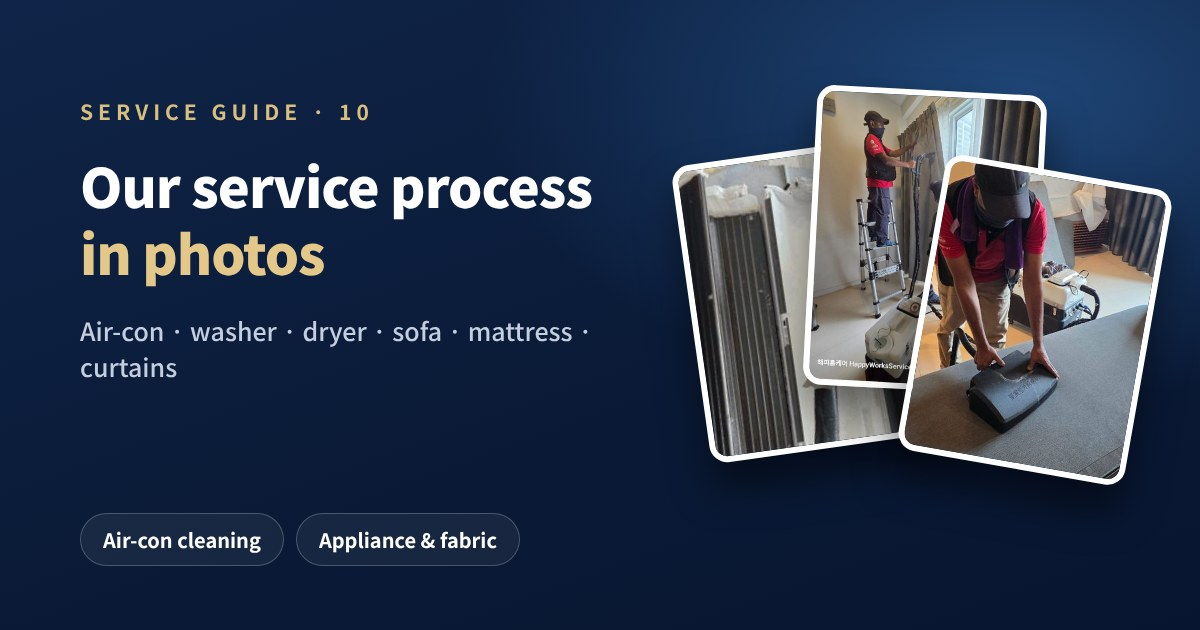
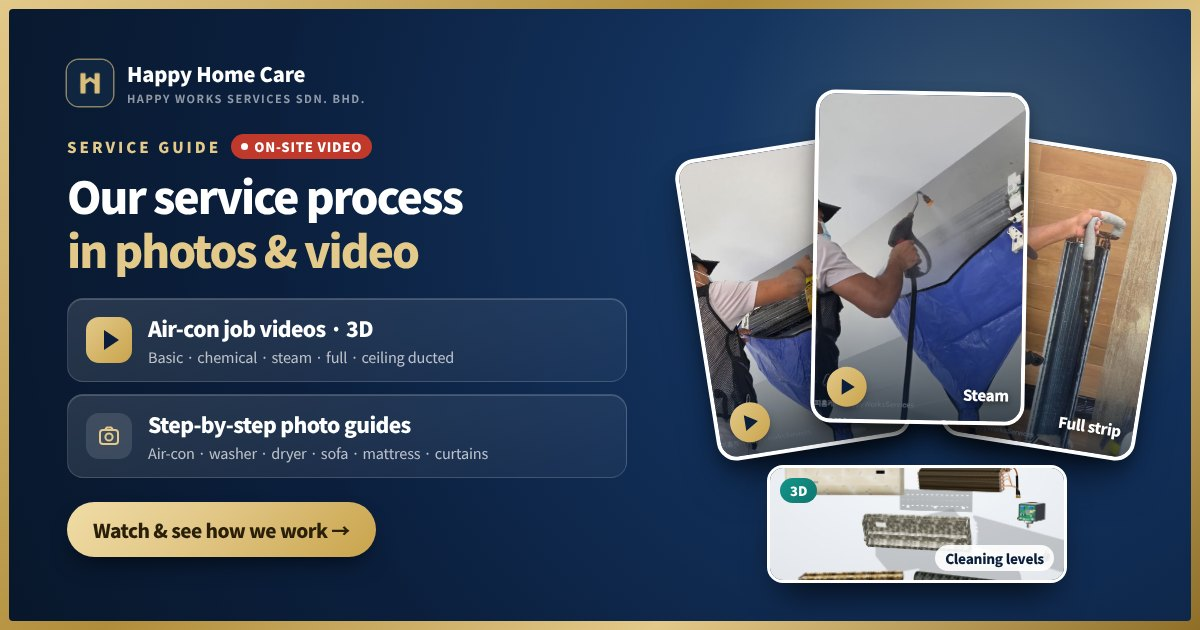
홈페이지 세척 과정에 현장 영상 버튼·플레이어 + 3D 카드 전체분해 그림, 서비스 안내 링크 썸네일·공유 그림·전자명함 배너를 현장 영상 버전으로
Claude-Session: https://claude.ai/code/session_019MNEeAWXw4qQP99pcnQDrb

diff --git a/home.html b/home.html
@@ -4111,8 +4111,12 @@ html[lang=en] .hp2 .gq-en,html[lang=en] .mp2 .gq-en{display:inline}html[lang=en]
     .d3x .tx .t{display:block;font-size:21px;font-weight:900;letter-spacing:-.035em;color:var(--navy-900);line-height:1.3;word-break:keep-all}
     .d3x .tx .d{display:block;margin-top:6px;font-size:13.5px;color:var(--ink-600);line-height:1.5;word-break:keep-all}
     .d3x .tx .go{display:inline-block;margin-top:10px;font-style:normal;font-size:13.5px;font-weight:800;color:var(--teal-600)}
+    /* 3D 카드 재생 버튼: 부품을 가리지 않게 오른쪽 아래 금색 (2026-11-23) */
+    .d3x .th:after{content:"";position:absolute;inset:auto 0 0 0;height:30%;background:linear-gradient(0deg,rgba(8,23,43,.22),rgba(8,23,43,0))}
+    .d3x .pl{left:auto;top:auto;right:16px;bottom:16px;margin:0;z-index:1;background:linear-gradient(135deg,#e3c98a,#c9a44c);box-shadow:0 0 0 4px rgba(255,255,255,.7),0 8px 18px -6px rgba(8,23,43,.6)}
+    .d3x .pl:before{border-left-color:var(--navy-950)}
     @media (max-width:720px){.d3x{gap:12px}.d3x .th{flex:0 0 42%;min-height:130px}
-      .d3x .pl{width:42px;height:42px;margin:-21px 0 0 -21px}.d3x .pl:before{border-left-width:13px;border-top-width:8px;border-bottom-width:8px;margin-left:4px}
+      .d3x .pl{width:38px;height:38px;margin:0;right:10px;bottom:10px}.d3x .pl:before{border-left-width:13px;border-top-width:8px;border-bottom-width:8px;margin-left:4px}
       .d3x .tx{padding:12px 14px}.d3x .tx .t{font-size:15.5px}.d3x .tx .d{font-size:12.5px}.d3x .tx .go{margin-top:6px;font-size:12.5px}}
     @media (prefers-reduced-motion:reduce){.d3x a,.d3x .pl{transition:none}}
     </style>
@@ -4120,7 +4124,7 @@ html[lang=en] .hp2 .gq-en,html[lang=en] .mp2 .gq-en{display:inline}html[lang=en]
       <div class="d3x-h"><b class="t"><span class="gq-ko">3D 영상으로 한눈에 보기</span><span class="gq-en">See it in 3D</span></b>
         <span class="s"><span class="gq-ko">세척 종류마다 어디까지 분해하고 어떻게 세척하는지 확인하세요.</span><span class="gq-en">See what each cleaning level takes apart and how it is cleaned.</span></span></div>
       <a href="/ac-3d-scope?from=home" data-d3="/ac-3d-scope">
-        <div class="th"><img src="3d-scope-thumb.jpg" alt="" loading="lazy" decoding="async" width="800" height="600"><span class="tg">3D</span><span class="pl"></span></div>
+        <div class="th"><img src="3d-scope-thumb2-43.jpg?v=20261123" alt="" loading="lazy" decoding="async" width="1200" height="900"><span class="tg">3D</span><span class="pl"></span></div>
         <div class="tx"><b class="t"><span class="gq-ko">3D로 보는 세척 종류별 분해 범위</span><span class="gq-en">Cleaning levels in 3D</span></b>
           <span class="d"><span class="gq-ko">기본 · 약품 · 스팀살균 · 반분해 · 전체분해 — 분해 범위와 세척 과정을 비교</span><span class="gq-en">Basic · chemical · steam · semi · full — compare what is removed and how it is cleaned</span></span>
           <em class="go"><span class="gq-ko">▶ 3D 영상 보기</span><span class="gq-en">▶ Watch in 3D</span></em></div>
@@ -4146,6 +4150,7 @@ html[lang=en] .hp2 .gq-en,html[lang=en] .mp2 .gq-en{display:inline}html[lang=en]
       <!-- 기본세척 -->
       <div class="acx-pane" data-acx-pane="basic" data-n="2" hidden>
         <div class="acx-gh"><h3>기본세척 2단계 과정</h3><p>전용 고압세척수로 에어컨 내부의 먼지를 깨끗하게.</p></div>
+        <button type="button" class="hv-go" data-hv="basic"><span class="th"><img src="vid-ac-basic.jpg?v=20261123" alt="" loading="lazy" decoding="async"><span class="pl"></span></span><span class="tx"><em><span class="gq-ko">현장 영상</span><span class="gq-en">ON-SITE VIDEO</span></em><b><span class="gq-ko">실제 작업 영상으로 보기</span><span class="gq-en">Watch the real job</span></b><small><span class="gq-ko">4단계</span><span class="gq-en">4 steps</span> · 0:22</small></span><span class="ar"><svg viewBox="0 0 20 20" fill="none" stroke="#e3c98a" stroke-width="2.6" stroke-linecap="round" stroke-linejoin="round"><path d="M7.5 4l6 6-6 6"/></svg></span></button>
         <div class="cw-steps">
       <div class="cw-step">
         <div class="cw-ph"><img src="ac-s-prep.jpg" alt="부품 분해 및 보양작업" loading="lazy" width="396" height="264"><span class="no"><b data-n="1"></b>STEP 1</span></div>
@@ -4180,6 +4185,7 @@ html[lang=en] .hp2 .gq-en,html[lang=en] .mp2 .gq-en{display:inline}html[lang=en]
       <!-- 약품세척 -->
       <div class="acx-pane" data-acx-pane="chem" data-n="4" hidden>
         <div class="acx-gh"><h3>약품세척 4단계 과정</h3><p>전용 세척약품과 고압세척수로 에어컨 내부의 먼지, 곰팡이까지 깨끗하게.</p></div>
+        <button type="button" class="hv-go" data-hv="chem"><span class="th"><img src="vid-ac-chem.jpg?v=20261123" alt="" loading="lazy" decoding="async"><span class="pl"></span></span><span class="tx"><em><span class="gq-ko">현장 영상</span><span class="gq-en">ON-SITE VIDEO</span></em><b><span class="gq-ko">실제 작업 영상으로 보기</span><span class="gq-en">Watch the real job</span></b><small><span class="gq-ko">7단계</span><span class="gq-en">7 steps</span> · 0:40</small></span><span class="ar"><svg viewBox="0 0 20 20" fill="none" stroke="#e3c98a" stroke-width="2.6" stroke-linecap="round" stroke-linejoin="round"><path d="M7.5 4l6 6-6 6"/></svg></span></button>
         <div class="cw-steps">
       <div class="cw-step">
         <div class="cw-ph"><img src="ac-s-prep.jpg" alt="부품 분해 및 보양작업" loading="lazy" width="396" height="264"><span class="no"><b data-n="1"></b>STEP 1</span></div>
@@ -4228,6 +4234,7 @@ html[lang=en] .hp2 .gq-en,html[lang=en] .mp2 .gq-en{display:inline}html[lang=en]
       <!-- 스팀살균세척 -->
       <div class="acx-pane" data-acx-pane="steam" data-n="5">
         <div class="acx-gh"><span class="rec">추천</span><h3>스팀살균세척 5단계 과정</h3><p>전문 장비와 체계적인 세척 과정으로 에어컨 내부의 먼지, 곰팡이, 세균까지 깨끗하게.</p></div>
+        <button type="button" class="hv-go" data-hv="steam"><span class="th"><img src="vid-ac-steam.jpg?v=20261123" alt="" loading="lazy" decoding="async"><span class="pl"></span></span><span class="tx"><em><span class="gq-ko">현장 영상</span><span class="gq-en">ON-SITE VIDEO</span></em><b><span class="gq-ko">실제 작업 영상으로 보기</span><span class="gq-en">Watch the real job</span></b><small><span class="gq-ko">11단계</span><span class="gq-en">11 steps</span> · 0:47</small></span><span class="ar"><svg viewBox="0 0 20 20" fill="none" stroke="#e3c98a" stroke-width="2.6" stroke-linecap="round" stroke-linejoin="round"><path d="M7.5 4l6 6-6 6"/></svg></span></button>
         <div class="cw-steps">
       <div class="cw-step">
         <div class="cw-ph"><img src="ac-s-prep.jpg" alt="부품 분해 및 보양작업" loading="lazy" width="396" height="264"><span class="no"><b data-n="1"></b>STEP 1</span></div>
@@ -4282,6 +4289,7 @@ html[lang=en] .hp2 .gq-en,html[lang=en] .mp2 .gq-en{display:inline}html[lang=en]
       <!-- 전체분해세척 -->
       <div class="acx-pane" data-acx-pane="full" data-n="5" hidden>
         <div class="acx-gh"><h3>전체분해세척 5단계 과정</h3><p>실내기를 벽에서 떼어 모든 부품을 하나하나 분해 · 세척. 가장 깊은 곳의 곰팡이와 찌든 때까지 깨끗하게.</p></div>
+        <button type="button" class="hv-go" data-hv="full"><span class="th"><img src="vid-ac-full.jpg?v=20261123" alt="" loading="lazy" decoding="async"><span class="pl"></span></span><span class="tx"><em><span class="gq-ko">현장 영상</span><span class="gq-en">ON-SITE VIDEO</span></em><b><span class="gq-ko">실제 작업 영상으로 보기</span><span class="gq-en">Watch the real job</span></b><small><span class="gq-ko">12단계</span><span class="gq-en">12 steps</span> · 1:06</small></span><span class="ar"><svg viewBox="0 0 20 20" fill="none" stroke="#e3c98a" stroke-width="2.6" stroke-linecap="round" stroke-linejoin="round"><path d="M7.5 4l6 6-6 6"/></svg></span></button>
         <div class="cw-steps">
       <div class="cw-step">
         <div class="cw-ph"><img src="ac-f1.jpg" alt="실내기 분해 벽에서 탈거" loading="lazy" width="396" height="264"><span class="no"><b data-n="1"></b>STEP 1</span></div>
@@ -8582,5 +8590,146 @@ window.PT_IMG={ban:'price-banner.jpg'};
   setTimeout(tick,600);
 })();
 </script>
+<!-- ═══ 🎬 현장 영상 플레이어 (2026-11-23) — 세척 종류별 실제 작업 영상 · 단계 바로가기. guides.html 과 같은 영상 파일 사용 ═══ -->
+<style id="hv-video">
+.hv-go{position:relative;display:flex;align-items:center;gap:14px;width:100%;max-width:560px;margin:0 2px 18px;padding:10px 14px 10px 10px;border:0;border-radius:18px;cursor:pointer;font-family:inherit;text-align:left;color:#2a1f08;
+  background:linear-gradient(135deg,#f0dca6,#e3c98a 35%,#c9a44c 75%,#b08d3a);box-shadow:inset 0 1px 0 rgba(255,255,255,.55),0 2px 4px rgba(11,24,51,.18),0 14px 26px -12px rgba(11,24,51,.5);transition:transform .16s var(--ease)}
+.hv-go:hover{transform:translateY(-2px)}
+.hv-go:active{transform:scale(.98)}
+.hv-go .th{position:relative;flex:none;width:58px;height:76px;border-radius:12px;overflow:hidden;background:var(--navy-900);box-shadow:0 0 0 2px rgba(255,255,255,.7),0 6px 12px -4px rgba(42,31,8,.5)}
+.hv-go .th img{position:absolute;inset:0;width:100%;height:100%;object-fit:cover}
+.hv-go .th:after{content:"";position:absolute;inset:0;background:rgba(8,23,43,.28)}
+.hv-go .pl{position:absolute;left:50%;top:50%;z-index:1;width:30px;height:30px;margin:-15px 0 0 -15px;border-radius:50%;background:#fff;display:grid;place-items:center;animation:hvP 1.8s ease-out infinite}
+.hv-go .pl:before{content:"";margin-left:3px;border-left:10px solid var(--navy-950);border-top:6px solid transparent;border-bottom:6px solid transparent}
+@keyframes hvP{0%{box-shadow:0 0 0 0 rgba(255,255,255,.75)}70%{box-shadow:0 0 0 12px rgba(255,255,255,0)}100%{box-shadow:0 0 0 0 rgba(255,255,255,0)}}
+.hv-go .tx{flex:1;min-width:0}
+.hv-go .tx em{display:inline-flex;align-items:center;gap:5px;font-style:normal;font-size:10.5px;font-weight:900;letter-spacing:.02em;color:#fff;background:var(--navy-900);padding:3px 8px;border-radius:999px}
+.hv-go .tx em:before{content:"";width:6px;height:6px;border-radius:50%;background:#ef4444}
+.hv-go .tx b{display:block;margin-top:5px;font-size:17px;font-weight:900;letter-spacing:-.04em;line-height:1.25;word-break:keep-all}
+.hv-go .tx small{display:block;margin-top:2px;font-size:12.5px;font-weight:800;color:rgba(42,31,8,.7);font-variant-numeric:tabular-nums}
+.hv-go .ar{flex:none;width:34px;height:34px;border-radius:50%;background:var(--navy-900);display:grid;place-items:center}
+.hv-go .ar svg{width:16px;height:16px}
+#hvp{position:fixed;inset:0;z-index:2147483000;background:#05101f;display:none;flex-direction:column;color:#fff;font-family:inherit}
+#hvp.on{display:flex}
+#hvp button{font-family:inherit;border:0;cursor:pointer;color:inherit;background:none}
+#hvp a{text-decoration:none}
+.hvp-t{width:100%;max-width:560px;margin:0 auto;padding:calc(8px + env(safe-area-inset-top)) 12px 8px}
+.hvp-b{display:flex;gap:3px;height:4px}
+.hvp-b button{flex:1;position:relative;border-radius:2px;background:rgba(255,255,255,.22)!important;overflow:hidden;min-height:4px;padding:0}
+.hvp-b button:after{content:"";position:absolute;inset:-10px 0}
+.hvp-b button i{position:absolute;left:0;top:0;bottom:0;width:0;background:var(--gold-300)}
+.hvp-h{display:flex;align-items:center;gap:10px;margin-top:10px;padding-left:6px}
+.hvp-h .tt{flex:1;min-width:0}
+.hvp-h small{display:block;font-size:10.5px;font-weight:800;letter-spacing:.08em;color:var(--gold-300)}
+.hvp-h b{display:block;font-size:16px;font-weight:900;letter-spacing:-.035em;white-space:nowrap;overflow:hidden;text-overflow:ellipsis;margin-top:1px}
+.hvp-x{flex:none;width:44px;height:44px;border-radius:14px;background:rgba(255,255,255,.1)!important;display:grid;place-items:center}
+.hvp-x svg{width:20px;height:20px}
+.hvp-v{position:relative;flex:1;min-height:0;display:flex;align-items:center;justify-content:center;padding:0 12px}
+.hvp-v video{max-width:100%;max-height:100%;height:100%;aspect-ratio:9/16;object-fit:contain;border-radius:16px;background:#000;box-shadow:0 24px 48px -18px rgba(0,0,0,.9)}
+.hvp-i{position:absolute;left:50%;top:50%;width:72px;height:72px;margin:-36px 0 0 -36px;border-radius:50%;background:rgba(8,23,43,.62);-webkit-backdrop-filter:blur(8px);backdrop-filter:blur(8px);border:1px solid rgba(255,255,255,.25);display:grid;place-items:center;opacity:0;transform:scale(.85);transition:opacity .18s,transform .18s;pointer-events:none}
+.hvp-i.on{opacity:1;transform:none}
+.hvp-i:before{content:"";margin-left:5px;border-left:22px solid #fff;border-top:14px solid transparent;border-bottom:14px solid transparent}
+.hvp-i.pa:before{margin:0;width:20px;height:24px;border:0;background:linear-gradient(90deg,#fff 0 7px,transparent 7px 13px,#fff 13px)}
+.hvp-e{position:absolute;inset:0;display:none;flex-direction:column;align-items:center;justify-content:center;gap:10px;background:rgba(5,16,31,.72);-webkit-backdrop-filter:blur(4px);backdrop-filter:blur(4px)}
+.hvp-e.on{display:flex}
+.hvp-e small{font-size:12px;font-weight:700;color:rgba(255,255,255,.7)}
+.hvp-e button{min-width:220px;min-height:48px;padding:0 20px;border-radius:14px;font-size:15px;font-weight:900;letter-spacing:-.03em;background:rgba(255,255,255,.12)!important}
+#hvp .gold{color:#2a1f08!important;background:linear-gradient(135deg,#e3c98a,#c9a44c 60%,#b08d3a)!important}
+.hvp-c{display:flex;gap:7px;overflow-x:auto;width:100%;max-width:560px;margin:0 auto;padding:12px 12px 4px;scrollbar-width:none;-webkit-overflow-scrolling:touch}
+.hvp-c::-webkit-scrollbar{display:none}
+.hvp-c button{flex:none;display:flex;align-items:center;gap:6px;min-height:38px;padding:0 13px 0 6px!important;border-radius:999px;background:rgba(255,255,255,.08)!important;border:1px solid rgba(255,255,255,.12)!important;font-size:13px;font-weight:800;letter-spacing:-.03em;color:rgba(255,255,255,.78)!important;white-space:nowrap}
+.hvp-c button i{font-style:normal;min-width:26px;height:26px;padding:0 6px;border-radius:999px;display:grid;place-items:center;font-size:11px;font-weight:900;background:rgba(255,255,255,.12)}
+.hvp-c button.on{background:#fff!important;color:var(--navy-950)!important;border-color:#fff!important}
+.hvp-c button.on i{background:linear-gradient(135deg,#e3c98a,#c9a44c);color:#2a1f08}
+.hvp-c button.dn{color:rgba(255,255,255,.5)!important}
+.hvp-f{display:grid;grid-template-columns:48px 1fr 1fr 48px;gap:8px;width:100%;max-width:560px;margin:0 auto;padding:10px 12px calc(10px + env(safe-area-inset-bottom))}
+.hvp-f button,.hvp-f a{min-height:48px;border-radius:14px;display:grid;place-items:center;font-size:13.5px;font-weight:800;letter-spacing:-.02em;color:#fff;background:rgba(255,255,255,.1)!important}
+.hvp-f svg{width:20px;height:20px}
+.hvp-f button:disabled{opacity:.3}
+.hvp-toast{position:fixed;left:50%;bottom:calc(84px + env(safe-area-inset-bottom));transform:translateX(-50%);z-index:2147483001;background:#fff;color:var(--navy-900);font-size:13px;font-weight:800;padding:10px 16px;border-radius:999px;box-shadow:0 12px 24px -10px rgba(0,0,0,.6);opacity:0;pointer-events:none;transition:opacity .2s}
+.hvp-toast.on{opacity:1}
+@media (max-width:720px){.hv-go{max-width:none;margin:0 0 14px}.hv-go .tx b{font-size:16px}}
+@media (prefers-reduced-motion:reduce){.hv-go .pl{animation:none}.hv-go,.hvp-i{transition:none}}
+</style>
+<div id="hvp" role="dialog" aria-modal="true" aria-labelledby="hvpT">
+ <div class="hvp-t"><div class="hvp-b" id="hvpB"></div>
+  <div class="hvp-h"><div class="tt"><small id="hvpK"></small><b id="hvpT"></b></div>
+   <button class="hvp-x" id="hvpX" type="button" aria-label="닫기"><svg viewBox="0 0 20 20" fill="none" stroke="#fff" stroke-width="2.4" stroke-linecap="round"><path d="M4 4l12 12M16 4 4 16"/></svg></button></div></div>
+ <div class="hvp-v" id="hvpV"><video id="hvpE" playsinline muted preload="metadata"></video><div class="hvp-i" id="hvpI"></div>
+  <div class="hvp-e" id="hvpEnd"><small id="hvpEs"></small><button class="gold" id="hvpEn" type="button"></button><button id="hvpEr" type="button"></button></div></div>
+ <div class="hvp-c" id="hvpC"></div>
+ <div class="hvp-f">
+  <button id="hvpPrev" type="button" aria-label="이전 영상"><svg viewBox="0 0 20 20" fill="none" stroke="#fff" stroke-width="2.4" stroke-linecap="round" stroke-linejoin="round"><path d="M12.5 4 6.5 10l6 6"/></svg></button>
+  <button id="hvpCopy" type="button"></button>
+  <a id="hvpWa" class="gold" target="_blank" rel="noopener"></a>
+  <button id="hvpNext" type="button" aria-label="다음 영상"><svg viewBox="0 0 20 20" fill="none" stroke="#fff" stroke-width="2.4" stroke-linecap="round" stroke-linejoin="round"><path d="M7.5 4l6 6-6 6"/></svg></button>
+ </div>
+</div>
+<div class="hvp-toast" id="hvpToast"></div>
+<script>
+(function(){
+  /* 영상 · 단계 시작 초 — guides.html 의 VIDS 와 같게 유지하세요 */
+  var VER='20261123',WA='60172472774';
+  var VIDS=[
+    {k:'basic',ko:'기본 세척',en:'Basic cleaning',d:22,ch:[[3.4,'외부 케이스 분리','Remove casing'],[6.8,'열교환기 세척','Wash coil'],[10.2,'외부 케이스 세척','Wash casing'],[13.6,'재조립','Reassemble']]},
+    {k:'chem',ko:'약품 세척',en:'Chemical cleaning',d:40,ch:[[3.4,'패널 · 필터 분리','Panel & filters'],[6.0,'드레인판 분리','Drain pan'],[11.2,'분해한 부품','Removed parts'],[13.8,'세척 커버 설치','Wash cover'],[19.0,'약품 분사','Chemical spray'],[21.6,'고압수 세척','Pressure rinse'],[32.0,'외부 케이스 세척','Wash casing']]},
+    {k:'steam',ko:'스팀살균 세척',en:'Steam sterilising',d:47,ch:[[3.4,'패널 · 필터 분리','Panel & filters'],[6.0,'드레인판 분리','Drain pan'],[11.2,'세척 전 오염','Before cleaning'],[13.8,'세척 커버 설치','Wash cover'],[16.4,'약품 처리','Chemical'],[21.6,'고압수 세척','Pressure rinse'],[26.8,'고온 스팀 세척','Steam wash'],[32.0,'고온 스팀 살균','Steam sterilise'],[34.6,'외부 케이스 세척','Wash casing'],[37.2,'재조립','Reassemble'],[39.8,'마무리 청소','Wipe-down']]},
+    {k:'full',ko:'전체분해 세척',en:'Full disassembly',d:66,ch:[[3.4,'작업 공간 보양','Protect area'],[6.0,'외부 케이스 분리','Remove casing'],[8.6,'배관 · 전선 분리','Pipes & wiring'],[11.2,'실내기 탈거','Unit off wall'],[16.4,'부품별 분해','Disassembly'],[24.2,'분해한 부품','Removed parts'],[29.4,'세척 장소로 이동','To wash area'],[32.0,'세척 과정','Washing'],[42.4,'세척 완료 부품','Clean parts'],[45.0,'재설치','Reinstall'],[50.2,'배관 연결 · 마감','Reconnect'],[55.4,'냉매 누설 검사','Leak test']]},
+    {k:'ceil',ko:'천장 매립형 스팀살균',en:'Ceiling ducted – steam',d:76,ch:[[3.4,'작업 공간 보양','Protect area'],[8.6,'천장 점검구 개방','Open ceiling'],[13.8,'실내기 상태 확인','Inspect unit'],[16.4,'드레인판 분해','Drain pan'],[21.6,'하부 패널 분리','Bottom panel'],[26.8,'보온 커버 분리','Insulation'],[29.4,'분해한 부품','Removed parts'],[34.6,'세척 보양막 설치','Wash cover'],[37.2,'세척 과정','Washing'],[47.6,'드레인판 세척','Wash drain pan'],[50.2,'세척 완료 열교환기','Clean coil'],[55.4,'재조립','Reassemble'],[60.6,'천장 마감','Close ceiling'],[65.8,'마무리 청소','Wipe-down']]}
+  ];
+  var T={ko:{k:'현장 영상',copy:'링크 복사',copied:'링크를 복사했습니다',wa:'WhatsApp 문의',end:'영상이 끝났습니다',next:function(t){return '다음 영상 · '+t+' ▶'},again:'다시 보기',first:'처음 영상부터 ▶',msg:function(t){return '안녕하세요, 해피홈케어 “'+t+'” 서비스 문의드립니다.'}},
+         en:{k:'ON-SITE VIDEO',copy:'Copy link',copied:'Link copied',wa:'WhatsApp us',end:'End of video',next:function(t){return 'Next · '+t+' ▶'},again:'Watch again',first:'Start from the first ▶',msg:function(t){return 'Hello, I have a question about your "'+t+'" service.'}}};
+  var $=function(id){return document.getElementById(id)},E=$('hvpE'),pv=-1,iT,lastC=-2,prevOv='';
+  function L(){return document.documentElement.lang==='en'?'en':'ko'}
+  function esc(s){return String(s).replace(/[&<>"]/g,function(c){return {'&':'&amp;','<':'&lt;','>':'&gt;','"':'&quot;'}[c]})}
+  function idx(k){for(var i=0;i<VIDS.length;i++)if(VIDS[i].k===k)return i;return -1}
+  function chAt(v,x){var c=-1;v.ch.forEach(function(q,i){if(x>=q[0]-.05)c=i});return c}
+  function flash(pa){var i=$('hvpI');i.classList.toggle('pa',!!pa);i.classList.add('on');clearTimeout(iT);iT=setTimeout(function(){i.classList.remove('on')},pa?100000:550)}
+  function fill(){
+    var l=L(),t=T[l],v=VIDS[pv],n=l==='en'?2:1,b='',c='';
+    $('hvpK').textContent=t.k+' · '+(pv+1)+' / '+VIDS.length;$('hvpT').textContent=v[l];
+    $('hvpCopy').textContent=t.copy;var wa=$('hvpWa');wa.textContent=t.wa;wa.href='https://wa.me/'+WA+'?text='+encodeURIComponent(t.msg(v[l]));
+    $('hvpPrev').disabled=pv===0;$('hvpNext').disabled=pv===VIDS.length-1;
+    v.ch.forEach(function(q,i){b+='<button type="button" data-c="'+i+'" aria-label="STEP '+(i+1)+'"><i></i></button>';c+='<button type="button" data-c="'+i+'"><i>'+(i+1)+'</i>'+esc(q[n])+'</button>'});
+    $('hvpB').innerHTML=b;$('hvpC').innerHTML=c;
+    $('hvpEs').textContent=t.end;$('hvpEn').textContent=pv<VIDS.length-1?t.next(VIDS[pv+1][l]):t.first;$('hvpEr').textContent=t.again;
+    lastC=-2;tick();
+  }
+  function tick(){
+    if(pv<0)return;var v=VIDS[pv],x=E.currentTime||0,c=chAt(v,x),bs=$('hvpB').children,cs=$('hvpC').children;
+    for(var i=0;i<bs.length;i++){var s0=v.ch[i][0],s1=i<v.ch.length-1?v.ch[i+1][0]:(E.duration||v.d)-1.5,f=x<=s0?0:x>=s1?1:(x-s0)/(s1-s0);
+      bs[i].firstChild.style.width=(f*100)+'%';cs[i].classList.toggle('on',i===c);cs[i].classList.toggle('dn',i<c)}
+    if(c!==lastC){lastC=c;if(c>=0){var el=cs[c],box=$('hvpC');try{box.scrollTo({left:el.offsetLeft-box.clientWidth/2+el.offsetWidth/2,behavior:'smooth'})}catch(e){}}}
+  }
+  function open(i){
+    if(pv<0)prevOv=document.body.style.overflow;
+    pv=i;var v=VIDS[i];$('hvp').classList.add('on');document.body.style.overflow='hidden';$('hvpEnd').classList.remove('on');
+    E.poster='vid-ac-'+v.k+'.jpg?v='+VER;E.src='vid-ac-'+v.k+'.mp4?v='+VER;try{E.currentTime=0}catch(e){}
+    fill();var p=E.play();if(p&&p.catch)p.catch(function(){flash(true)});
+  }
+  function close(){pv=-1;E.pause();E.removeAttribute('src');E.load();$('hvp').classList.remove('on');document.body.style.overflow=prevOv}
+  function seek(c){E.currentTime=VIDS[pv].ch[c][0]+.05;$('hvpEnd').classList.remove('on');E.play();tick()}
+  function toast(m){var e=$('hvpToast');e.textContent=m;e.classList.add('on');clearTimeout(toast.t);toast.t=setTimeout(function(){e.classList.remove('on')},1800)}
+  E.addEventListener('timeupdate',tick);
+  E.addEventListener('play',function(){$('hvpI').classList.remove('on')});
+  E.addEventListener('ended',function(){$('hvpEnd').classList.add('on')});
+  $('hvpV').addEventListener('click',function(e){if(e.target.closest('.hvp-e'))return;if(E.paused){E.play();flash(false)}else{E.pause();flash(true)}});
+  $('hvpB').addEventListener('click',function(e){var b=e.target.closest('button');if(b)seek(+b.getAttribute('data-c'))});
+  $('hvpC').addEventListener('click',function(e){var b=e.target.closest('button');if(b)seek(+b.getAttribute('data-c'))});
+  $('hvpEr').addEventListener('click',function(){seek(0);E.currentTime=0});
+  $('hvpEn').addEventListener('click',function(){open(pv<VIDS.length-1?pv+1:0)});
+  $('hvpX').addEventListener('click',close);
+  $('hvpPrev').addEventListener('click',function(){if(pv>0)open(pv-1)});
+  $('hvpNext').addEventListener('click',function(){if(pv<VIDS.length-1)open(pv+1)});
+  $('hvpCopy').addEventListener('click',function(){
+    var u=location.origin+'/guides?v='+VIDS[pv].k+(L()==='en'?'&lang=en':'');
+    var ok=function(){toast(T[L()].copied)},no=function(){toast(u)};
+    if(navigator.clipboard&&navigator.clipboard.writeText)navigator.clipboard.writeText(u).then(ok,no);else no();
+  });
+  document.addEventListener('click',function(e){var b=e.target.closest&&e.target.closest('.hv-go');if(b){e.preventDefault();var i=idx(b.getAttribute('data-hv'));if(i>=0)open(i)}});
+  document.addEventListener('keydown',function(e){if(pv<0)return;if(e.key==='Escape')close();else if(e.key==='ArrowLeft'&&pv>0)open(pv-1);else if(e.key==='ArrowRight'&&pv<VIDS.length-1)open(pv+1)});
+})();
+</script>
+
 </body>
 </html>

diff --git a/namecard.html b/namecard.html
@@ -389,7 +389,13 @@ body.own::before{height:calc(565px + var(--ownH,0px))}
 .na-gb .gb-ph img:nth-child(1){left:0;top:14px;transform:rotate(-9deg)}
 .na-gb .gb-ph img:nth-child(2){left:22%;top:0;transform:rotate(3deg)}
 .na-gb .gb-ph img:nth-child(3){left:40%;top:22px;transform:rotate(11deg)}
-@media (prefers-reduced-motion:reduce){.na-gb{transition:none}}
+/* 🎬 현장 영상 표시 (2026-11-23) — 맨 앞 사진 위 금색 재생 버튼 + 「현장 영상」 점 */
+.na-gb .gb-pl{position:absolute;left:76%;top:114px;z-index:2;width:40px;height:40px;margin:-20px 0 0 -20px;border-radius:50%;background:linear-gradient(135deg,#F6E8BC,var(--gold-200) 40%,var(--gold-500));box-shadow:0 0 0 3px rgba(255,255,255,.85),0 8px 16px -6px rgba(0,0,0,.7);display:grid;place-items:center;animation:gbPl 1.8s ease-out infinite}
+.na-gb .gb-pl:before{content:"";margin-left:4px;border-left:13px solid var(--navy-950);border-top:8px solid transparent;border-bottom:8px solid transparent}
+@keyframes gbPl{0%{box-shadow:0 0 0 3px rgba(255,255,255,.85),0 0 0 3px rgba(255,255,255,.5)}70%{box-shadow:0 0 0 3px rgba(255,255,255,.85),0 0 0 14px rgba(255,255,255,0)}100%{box-shadow:0 0 0 3px rgba(255,255,255,.85),0 0 0 3px rgba(255,255,255,0)}}
+.na-gb small i{display:inline-flex;align-items:center;gap:4px;margin-left:6px;padding:2px 7px;border-radius:999px;font-style:normal;letter-spacing:.04em;color:#fff;background:#c0392b;vertical-align:1px}
+.na-gb small i:before{content:"";width:5px;height:5px;border-radius:50%;background:#fff}
+@media (prefers-reduced-motion:reduce){.na-gb{transition:none}.na-gb .gb-pl{animation:none}}
 /* 📚 에어컨 안내장 배너 */
 .na-gbn{display:block;width:100%;text-align:left;padding:16px 15px 15px;border-radius:var(--r-lg);border:2px solid transparent;cursor:pointer;color:#fff;position:relative;overflow:hidden;
   /* 금색 테두리 — 안쪽은 남색, 바깥 2px 는 금색 그라데이션 */
@@ -1694,12 +1700,12 @@ a.nc-v{color:var(--navy-800)}
   <section class="na-sec" id="guideBox">
     <h2 class="na-h" data-t="hGuide">서비스별 안내</h2>
     <a class="na-gb" id="gdBanner" href="guides">
-      <span class="gb-ph" aria-hidden="true"><img src="ac-f3.jpg" alt="" loading="lazy"><img src="curtain-step3.jpg" alt="" loading="lazy"><img src="fab-sofa1.jpg" alt="" loading="lazy"></span>
+      <span class="gb-ph" aria-hidden="true"><img src="vid-ac-chem.jpg?v=20261123" alt="" loading="lazy"><img src="vid-ac-full.jpg?v=20261123" alt="" loading="lazy"><img src="vid-ac-steam.jpg?v=20261123" alt="" loading="lazy"><i class="gb-pl"></i></span>
       <span class="gb-tx">
-        <small data-t="gbK">SERVICE GUIDE · 10</small>
-        <b data-t="gbT">작업 사진으로 보는<br><em>서비스 과정</em></b>
-        <span class="gb-d" data-t="gbD">에어컨 · 세탁기 · 건조기<br>쇼파 · 매트리스 · 커튼</span>
-        <span class="gb-c" data-t="gbC">서비스 안내 10종 보기 →</span>
+        <small data-t="gbK">SERVICE GUIDE<i>현장 영상</i></small>
+        <b data-t="gbT">사진 · 영상으로 보는<br><em>서비스 과정</em></b>
+        <span class="gb-d" data-t="gbD">에어컨 현장 영상 · 3D<br>세탁기 · 쇼파 · 매트리스 · 커튼</span>
+        <span class="gb-c" data-t="gbC">영상 · 사진으로 보기 →</span>
       </span>
     </a>
   </section>
@@ -1821,7 +1827,7 @@ a.nc-v{color:var(--navy-800)}
         </div>
       </article>
       <article class="gs-c" data-gs="svc">
-        <div class="gs-hd"><img src="og-guides.jpg" alt="" loading="lazy"><div><b data-t="gs_svcT"></b><small data-t="gs_svcD"></small></div></div>
+        <div class="gs-hd"><img src="thumb-guides.jpg?v=20261123" alt="" loading="lazy"><div><b data-t="gs_svcT"></b><small data-t="gs_svcD"></small></div></div>
         <div class="gs-bt">
           <button type="button" class="wa" data-act="wa"><svg viewBox="0 0 24 24" fill="currentColor" aria-hidden="true"><path d="M12.04 2C6.58 2 2.13 6.45 2.13 11.91c0 1.75.46 3.45 1.32 4.95L2 22l5.25-1.38a9.9 9.9 0 0 0 4.79 1.22h.01c5.46 0 9.91-4.45 9.91-9.91S17.5 2 12.04 2Z"/></svg><span data-t="gsWa">왓츠앱</span></button>
           <button type="button" class="kk" data-act="kk"><svg viewBox="0 0 24 24" fill="currentColor" aria-hidden="true"><path d="M12 3C6.98 3 2.9 6.2 2.9 10.15c0 2.53 1.68 4.75 4.2 6.02-.18.65-.67 2.4-.77 2.77-.12.46.17.45.36.33.15-.1 2.36-1.6 3.32-2.25.64.09 1.3.14 1.99.14 5.02 0 9.1-3.2 9.1-7.15S17.02 3 12 3Z"/></svg><span data-t="gsKk">카카오톡</span></button>
@@ -2741,7 +2747,7 @@ var T = {
     recKkT:'😊 해피홈케어를 추천해요', recKkD:'에어컨 · 가전 · 커튼 · 쇼파 청소 — 명함에서 서비스 · 가격 확인과 예약 신청', recKkBtn:'명함 보기',
     popBook:'📅 예약 신청하기', popPrice:'🧾 서비스 비용 안내',
     popNew:'새 창', popLoad:'불러오는 중…',
-    gbK:'SERVICE GUIDE · 10', gbT:'작업 사진으로 보는<br><em>서비스 과정</em>', gbD:'에어컨 · 세탁기 · 건조기<br>쇼파 · 매트리스 · 커튼', gbC:'서비스 안내 10종 보기 →',
+    gbK:'SERVICE GUIDE<i>현장 영상</i>', gbT:'사진 · 영상으로 보는<br><em>서비스 과정</em>', gbD:'에어컨 현장 영상 · 3D<br>세탁기 · 쇼파 · 매트리스 · 커튼', gbC:'영상 · 사진으로 보기 →',
     hGuide:'서비스별 안내', guideFail:'안내를 불러오지 못했습니다. 잠시 후 다시 눌러 주세요.', guideLead:'실제 작업 사진으로 과정을 확인하세요',
     g_acBasic:['에어컨 기본세척','고압세척수로 내부 먼지 제거','2단계'],
     g_acChem:['에어컨 약품세척','전용 약품 + 고압세척수','4단계'],
@@ -2754,7 +2760,7 @@ var T = {
     g_curSt:['약식 커튼 스팀 살균','망사커튼도 걸린 그대로','3단계'],
     g_care:['우리 집 에어컨, 언제 청소해야 할까요?','건강 관리 3개월 · 유지보수 6개월','관리 주기'],
     hGuide2:'에어컨 안내장', gBack:'← 목록', guideLead2:'증상별 원인과 해결 방법을 안내장 한 장으로 확인하세요',
-    gbnSvc:['SERVICE GUIDE · 10','작업 사진으로 보는 <em>서비스 과정</em>','에어컨 세척 과정','기본 · 약품 · 스팀살균 · 전체분해 · 3D 영상',
+    gbnSvc:['SERVICE GUIDE · 현장 영상','사진 · 영상으로 보는 <em>서비스 과정</em>','에어컨 현장 영상 · 3D','기본 · 약품 · 스팀살균 · 전체분해 · 천장 매립형',
          '가전 · 패브릭 세척 과정','세탁기 · 건조기 · 쇼파 · 매트리스 · 커튼','서비스 안내 10종 보기 →'],
     gbn:['AIR-CON GUIDE · 7','에어컨, <em>알고 쓰면 다릅니다</em>','사용 중 미리 알아두면 좋은 정보','물 떨어짐 · 시원하지 않음 · 냄새 · 냉매 · 실외기',
          '서비스 업체 의뢰 전 알아두면 좋은 정보','피해야 할 업체 · 출장점검 비용','안내장 7종 보기 →'],
@@ -2767,9 +2773,9 @@ var T = {
     g_insp:['출장점검 서비스 비용','주소로 우리 집 비용 확인','점검 비용'],
     hGs:'안내 링크 보내기', gsWa:'왓츠앱', gsKk:'카카오톡', gsMore:'다른 앱', gsCopy:'복사', gsCopied:'안내 링크를 복사했습니다', gsBtn:'안내 보기',
     gsHint:'고객에게 필요할 때 안내 페이지 링크만 따로 보낼 수 있습니다. 지금 보내면 <b>한국어</b>로 열립니다 (영문은 위에서 EN을 누르고 보내세요). 이 칸은 관리자 화면에만 보입니다.',
-    gs_svcT:'작업 사진으로 보는 서비스 과정', gs_svcD:'에어컨(3D 영상 포함) · 세탁기 · 건조기 · 소파 · 매트리스 · 커튼',
+    gs_svcT:'사진 · 영상으로 보는 서비스 과정', gs_svcD:'에어컨 현장 영상 · 3D · 세탁기 · 건조기 · 소파 · 매트리스 · 커튼',
     gs_acT:'에어컨, 알고 쓰면 다릅니다', gs_acD:'증상별 원인 · 해결 방법 · 업체 의뢰 전 체크',
-    gs_svcMsg:'📸 해피홈케어 작업 사진으로 보는 서비스 과정입니다.\n에어컨 · 세탁기 · 건조기 · 소파 · 매트리스 · 커튼\n서비스 종류별 세척 방법과 상세 작업 과정 및 순서를 사진으로 확인해 보세요.\n🎬 에어컨 세척 종류별 분해 범위는 3D 영상으로도 볼 수 있습니다.\n\n',
+    gs_svcMsg:'🎬 해피홈케어 사진 · 영상으로 보는 서비스 과정입니다.\n에어컨은 실제 현장 작업 영상(기본 · 약품 · 스팀살균 · 전체분해 · 천장 매립형)과 3D 분해 범위로,\n세탁기 · 건조기 · 소파 · 매트리스 · 커튼은 작업 사진으로 세척 과정을 단계별로 확인해 보세요.\n\n',
     gs_jntT:'함께 가입하는 공동계약 패키지', gs_jntD:'가족 · 이웃 · 지인과 골드 이상 · 1인 금액 바로 확인',
     gs_jntMsg:'👥 함께 가입하는 공동계약 패키지 안내입니다.\n가족 · 이웃 · 지인과 골드 이상 패키지에 함께 가입하면 혜택은 각자 똑같이, 적립금은 나눠서 각자 씁니다. 등급과 인원을 고르면 1인 금액을 바로 확인할 수 있어요.\n\n',
     gs_memT:'해피 멤버십 패키지 안내', gs_memD:'내는 돈보다 더 많이 쓰는 멤버십 · 부가혜택 최대 11가지',
@@ -2840,7 +2846,7 @@ var T = {
     recKkT:'😊 I recommend Happy Home Care', recKkD:'Air-con · appliance · curtain · sofa cleaning — see services & prices and book from the card', recKkBtn:'View card',
     popBook:'📅 Book a service', popPrice:'🧾 Services & pricing',
     popNew:'New tab', popLoad:'Loading…',
-    gbK:'SERVICE GUIDE · 10', gbT:'See our service<br><em>process in photos</em>', gbD:'Aircon · washer · dryer<br>sofa · mattress · curtains', gbC:'View all 10 guides →',
+    gbK:'SERVICE GUIDE<i>VIDEO</i>', gbT:'Our service process<br><em>in photos &amp; video</em>', gbD:'Air-con job videos · 3D<br>washer · sofa · mattress · curtains', gbC:'Watch &amp; view →',
     hGuide:'SERVICE GUIDES', guideFail:'Could not load this guide. Please try again shortly.', guideLead:'See each process in photos from real jobs',
     g_acBasic:['A/C basic cleaning','Dust washed out with high-pressure water','2 steps'],
     g_acChem:['A/C chemical cleaning','Cleaning chemical + high-pressure rinse','4 steps'],
@@ -2853,7 +2859,7 @@ var T = {
     g_curSt:['Light curtain steam','Even sheer curtains, as they hang','3 steps'],
     g_care:['How often should you clean your A/C?','3 months for health · 6 months for upkeep','Care cycle'],
     hGuide2:'Air-con guides', gBack:'← List', guideLead2:'Causes and fixes by symptom — one page each',
-    gbnSvc:['SERVICE GUIDE · 10','Our services, <em>step by step</em>','Air-con cleaning process','Basic · chemical · steam · full overhaul · 3D video',
+    gbnSvc:['SERVICE GUIDE · VIDEO','Our services in <em>photos &amp; video</em>','Air-con job videos · 3D','Basic · chemical · steam · full · ceiling ducted',
          'Appliance & fabric cleaning','Washer · dryer · sofa · mattress · curtains','See all 10 service guides →'],
     gbn:['AIR-CON GUIDE · 7','Air-con: <em>good to know</em>','Good to know while using it','Dripping · weak cooling · odour · refrigerant · outdoor unit',
          'Good to know before you book a company','Companies to avoid · inspection fees','See all 7 guides →'],
@@ -2866,9 +2872,9 @@ var T = {
     g_insp:['On-site inspection fees','Check the fee for your address','Fees'],
     hGs:'SEND A GUIDE LINK', gsWa:'WhatsApp', gsKk:'KakaoTalk', gsMore:'Other apps', gsCopy:'Copy', gsCopied:'Guide link copied', gsBtn:'View guide',
     gsHint:'Send just the guide page link to a customer when needed. Sent now, it opens in <b>English</b>. This box is shown on the admin screen only.',
-    gs_svcT:'Our service process in photos', gs_svcD:'Air-con (incl. 3D videos) · washer · dryer · sofa · mattress · curtains',
+    gs_svcT:'Our service process in photos & video', gs_svcD:'Air-con job videos & 3D · washer · dryer · sofa · mattress · curtains',
     gs_acT:'Air-con: good to know', gs_acD:'Causes & fixes by symptom · before you book',
-    gs_svcMsg:'📸 Here is how Happy Home Care works, in photos from real jobs.\nAir-con · washer · dryer · sofa · mattress · curtains\nSee the cleaning method and the detailed work process and steps for each type of service.\n🎬 For air-cons, you can also watch the cleaning levels in 3D.\n\n',
+    gs_svcMsg:'🎬 Here is how Happy Home Care works, in video and photos from real jobs.\nAir-con: on-site job videos (basic · chemical · steam · full · ceiling ducted) and cleaning levels in 3D.\nWasher · dryer · sofa · mattress · curtains: step-by-step photos of the work.\n\n',
     gs_jntT:'Joint membership package', gs_jntD:'Join Gold+ with family, neighbours or friends · see your share',
     gs_jntMsg:'👥 Joint membership package.\nJoin a Gold-or-above package together with family, neighbours or friends — everyone gets the same benefits and the credit is split for each to use. Pick a tier and the number of members to see your share.\n\n',
     gs_memT:'Happy membership packages', gs_memD:'Pay less, use more · up to 11 member perks',
@@ -3409,7 +3415,7 @@ document.getElementById('btnShare').addEventListener('click', function(){
 });
 
 /* 🔒 안내 링크 보내기 (관리자 화면 전용) — 서비스 과정(/guides) · 에어컨 안내장(/ac-guides) */
-var GS = { svc:{ path:'/guides', img:'/og-guides.jpg', imgEn:'/og-guides-en.jpg', w:1200, h:624 },
+var GS = { svc:{ path:'/guides', img:'/og-guides.jpg?v=20261123', imgEn:'/og-guides-en.jpg?v=20261123', pv:3 },   // 🎬 새 그림(현장 영상) — pv:3 으로 예전 미리보기 대신 새 그림 (2026-11-23)
   ac:{ path:'/ac-guides', img:'/og-ac-guides.jpg', imgEn:'/og-ac-guides-en.jpg' },
   fee:{ path:'/fees', img:'/og-fees.jpg', imgEn:'/og-fees-en.jpg' },   // 💡 추가비용 — 아이콘(512×512)이 카드에서 넘쳐 전용 그림으로 (2026-11-21)
   smart:{ path:'/smart', img:'/og-save.jpg', imgEn:'/og-save-en.jpg' },   // 💡 새 그림 (2026-11-21)
@@ -3424,7 +3430,7 @@ function gsImg(k){ var g = GS[k], en = lang === 'en' && g.imgEn;
   return { img: SITE + (en ? g.imgEn : g.img), w: en ? 1200 : (g.w || 1200), h: en ? 630 : (g.h || 630) }; }
 function gsUrl(k){ var u = (lang === 'en' && GS[k].pathEn) || GS[k].path; u = SITE + u + (lang === 'en' ? (u.indexOf('?') > -1 ? '&' : '?') + 'lang=en' : '');
   // 🔄 pv=2 — 왓츠앱·카카오톡이 저장해 둔 예전 미리보기 그림 대신 새 그림을 다시 만들게 하는 표시 (페이지는 쓰지 않음, 2026-11-21)
-  return u + (u.indexOf('?') > -1 ? '&' : '?') + 'pv=2'; }
+  return u + (u.indexOf('?') > -1 ? '&' : '?') + 'pv=' + (GS[k].pv || 2); }
 /* 👁 항목마다 「미리보기」 — 보내기 전에 고객이 받을 화면을 명함 위 팝업으로 열어 봅니다 (2026-11-16)
    ·지금 화면 언어(한국어/EN) 그대로 열립니다 · 「새 창으로」로 실제 화면도 열 수 있습니다
    ·미리보기 창은 referrer 없이 열어 안쪽 화면에 「명함으로」 버튼이 겹쳐 뜨지 않게 합니다 */

diff --git a/guides.html b/guides.html
@@ -3,12 +3,14 @@
 <head>
 <meta charset="utf-8">
 <meta name="viewport" content="width=device-width,initial-scale=1,viewport-fit=cover">
-<title>작업 사진으로 보는 서비스 과정 | 해피홈케어</title>
-<meta name="description" content="에어컨 · 세탁기 · 건조기 · 쇼파 · 매트리스 · 커튼, 어떻게 청소하는지 작업 사진으로 확인하세요.">
+<title>사진 · 영상으로 보는 서비스 과정 | 해피홈케어</title>
+<meta name="description" content="에어컨 현장 영상 · 3D와 세탁기 · 건조기 · 쇼파 · 매트리스 · 커튼 작업 사진으로 서비스 과정을 확인하세요.">
 <meta property="og:type" content="website">
-<meta property="og:title" content="작업 사진으로 보는 서비스 과정 | 해피홈케어">
-<meta property="og:description" content="에어컨 · 세탁기 · 건조기 · 쇼파 · 매트리스 · 커튼 서비스 과정을 사진으로 확인하세요.">
-<meta property="og:image" content="https://happyhomecare.com.my/og-guides.jpg">
+<meta property="og:title" content="사진 · 영상으로 보는 서비스 과정 | 해피홈케어">
+<meta property="og:description" content="에어컨 현장 영상 · 3D · 세탁기 · 건조기 · 쇼파 · 매트리스 · 커튼 서비스 과정을 영상과 사진으로 확인하세요.">
+<meta property="og:image" content="https://happyhomecare.com.my/og-guides.jpg?v=20261123">
+<meta property="og:image:width" content="1200">
+<meta property="og:image:height" content="630">
 <meta name="theme-color" content="#0f2540">
 <style>
 :root{--navy-950:#08172b;--navy-900:#0f2540;--navy-800:#173a5e;--teal-700:#0b5f59;--teal-600:#0f766e;--gold-700:#8f6f28;--gold-600:#b08d3a;--gold-500:#c9a44c;--gold-300:#e3c98a;--gold-50:#fbf5e6;--ink-900:#161d27;--ink-600:#4d5866;--ink-400:#8891a0;--line:#e8e2d4;--paper:#fdfcf9;--ease:cubic-bezier(.22,.61,.36,1)}

diff --git a/functions/_middleware.js b/functions/_middleware.js
@@ -10,7 +10,7 @@
 // ─────────────────────────────────────────────────────────────────────────────
 const SITE = 'https://happyhomecare.com.my';
 const EN = {
-  'guides':    ['og-guides-en.jpg',    'Our service process in photos | Happy Home Care', 'Air-con · washer · dryer · sofa · mattress · curtains'],
+  'guides':    ['og-guides-en.jpg?v=20261123', 'Our service process in photos & video | Happy Home Care', 'Air-con job videos & 3D · washer · dryer · sofa · mattress · curtains'],
   'ac-guides': ['og-ac-guides-en.jpg', 'Air-con: good to know | Happy Home Care', 'Causes & fixes by symptom · before you book'],
   'smart':     ['og-save-en.jpg',      'Smart ways to save | Happy Home Care', 'Membership bonus credit · E-voucher 10% off'],
   'prices':    ['og-prices-en.jpg',    'Prices by service | Happy Home Care', 'Air-con · washer · sofa · mattress · curtain prices at a glance'],
